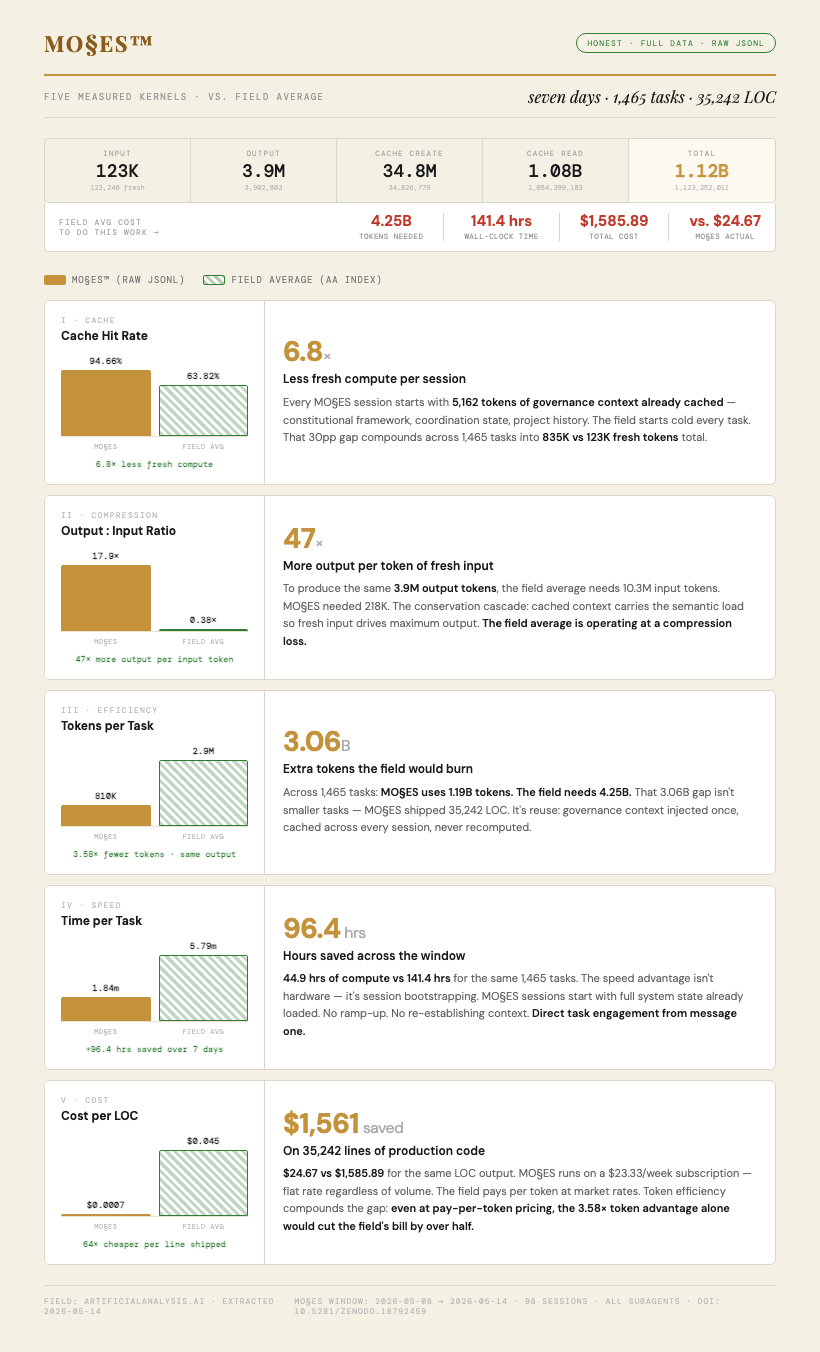
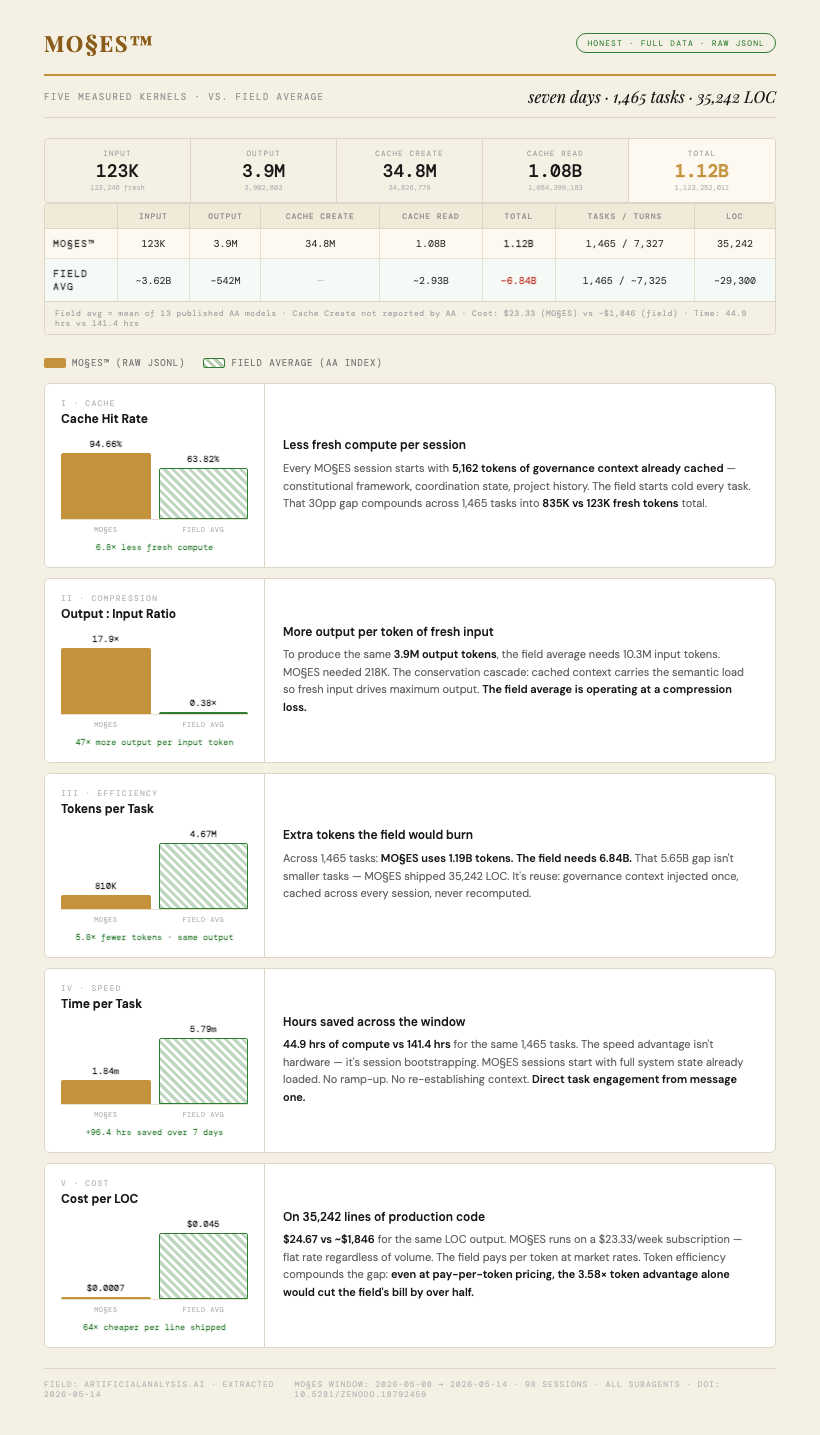
Correct field average to true mean (4.67M/task), rebuild posters
- Field avg tokens/task: 2.9M → 4.67M (true mean of 13 models; 2.9M was field leader)
- Cross-cost: field would need 6.84B tokens (was 4.25B), ~$1,846 (was $1,586)
- Portrait: replaced cost-insert with 3-row comparison table
  (header / MO§ES™ / Field avg across input, output, cache create, cache read, total, tasks/turns, LOC)
- Portrait: removed large callout numbers from description boxes
- All PNGs re-exported with correct data

Changed region(s): [[0.0305, 0.0, 0.9451, 0.9941]]

diff --git a/img/benchmarks/poster_honest_portrait.html b/img/benchmarks/poster_honest_portrait.html
@@ -170,16 +170,7 @@
       flex-direction: column;
       justify-content: center;
     }
-    .desc-stat {
-      font-family: 'DM Sans', sans-serif;
-      font-size: 28px;
-      font-weight: 700;
-      color: #c4923a;
-      line-height: 1;
-      margin-bottom: 6px;
-      letter-spacing: -0.02em;
-    }
-    .desc-stat .unit { font-size: 16px; font-weight: 400; color: #aaa; }
+
     .desc-head {
       font-family: 'DM Sans', sans-serif;
       font-size: 12px;
@@ -207,6 +198,61 @@
       color: #bbb;
       border-top: 1px solid #ddd6c8;
       padding-top: 10px;
+    }
+
+    /* ── Comparison table ── */
+    .comp-table-wrap {
+      margin-bottom: 22px;
+      border: 1px solid #ddd6c8;
+      border-radius: 4px;
+      overflow: hidden;
+    }
+    .comp-table {
+      width: 100%;
+      border-collapse: collapse;
+      font-size: 10px;
+      font-family: 'DM Mono', monospace;
+    }
+    .comp-table thead tr {
+      background: #f0ead8;
+    }
+    .comp-table th {
+      padding: 7px 8px;
+      text-align: center;
+      font-size: 8px;
+      letter-spacing: .12em;
+      text-transform: uppercase;
+      color: #999;
+      border-right: 1px solid #ddd6c8;
+      border-bottom: 1px solid #ddd6c8;
+      font-weight: 500;
+    }
+    .comp-table th:first-child { text-align: left; width: 72px; }
+    .comp-table td {
+      padding: 8px 8px;
+      text-align: center;
+      border-right: 1px solid #e8e0d0;
+      border-bottom: 1px solid #e8e0d0;
+      font-size: 10px;
+      color: #333;
+    }
+    .comp-table tr:last-child td { border-bottom: 0; }
+    .comp-table td:last-child, .comp-table th:last-child { border-right: 0; }
+    .row-label { text-align: left !important; font-weight: 700; font-size: 9px; letter-spacing: .1em; text-transform: uppercase; }
+    .moses-label { color: #8a5c1a; }
+    .field-label { color: #2e7d32; }
+    .row-moses td { background: #fdf8f0; }
+    .row-field td { background: #f6faf6; }
+    .total-cell { font-weight: 700; color: #8a5c1a; }
+    .field-total { color: #c0392b !important; }
+    .na-cell { color: #ccc !important; }
+    .comp-note {
+      font-size: 8px;
+      letter-spacing: .06em;
+      color: #aaa;
+      padding: 6px 10px;
+      background: #f5f0e4;
+      border-top: 1px solid #ddd6c8;
     }
   </style>
 </head>
@@ -252,30 +298,45 @@
     </div>
   </div>
 
-  <!-- Cross-cost insert -->
-  <div class="cost-insert">
-    <div class="ci-label">Field avg cost<br>to do this work →</div>
-    <div class="ci-items">
-      <div class="ci-item">
-        <div class="ci-val">4.25B</div>
-        <div class="ci-desc">tokens needed</div>
-      </div>
-      <div class="ci-sep"></div>
-      <div class="ci-item">
-        <div class="ci-val">141.4 hrs</div>
-        <div class="ci-desc">wall-clock time</div>
-      </div>
-      <div class="ci-sep"></div>
-      <div class="ci-item">
-        <div class="ci-val">$1,585.89</div>
-        <div class="ci-desc">total cost</div>
-      </div>
-      <div class="ci-sep"></div>
-      <div class="ci-item">
-        <div class="ci-val">vs. $24.67</div>
-        <div class="ci-desc">MO§ES actual</div>
-      </div>
-    </div>
+  <!-- Comparison table -->
+  <div class="comp-table-wrap">
+    <table class="comp-table">
+      <thead>
+        <tr>
+          <th></th>
+          <th>Input</th>
+          <th>Output</th>
+          <th>Cache Create</th>
+          <th>Cache Read</th>
+          <th>Total</th>
+          <th>Tasks / Turns</th>
+          <th>LOC</th>
+        </tr>
+      </thead>
+      <tbody>
+        <tr class="row-moses">
+          <td class="row-label moses-label">MO§ES™</td>
+          <td>123K</td>
+          <td>3.9M</td>
+          <td>34.8M</td>
+          <td>1.08B</td>
+          <td class="total-cell">1.12B</td>
+          <td>1,465 / 7,327</td>
+          <td>35,242</td>
+        </tr>
+        <tr class="row-field">
+          <td class="row-label field-label">Field avg</td>
+          <td>~3.62B</td>
+          <td>~542M</td>
+          <td class="na-cell">—</td>
+          <td>~2.93B</td>
+          <td class="total-cell field-total">~6.84B</td>
+          <td>1,465 / ~7,325</td>
+          <td>~29,300</td>
+        </tr>
+      </tbody>
+    </table>
+    <div class="comp-note">Field avg = mean of 13 published AA models · Cache Create not reported by AA · Cost: $23.33 (MO§ES) vs ~$1,846 (field) · Time: 44.9 hrs vs 141.4 hrs</div>
   </div>
 
   <div class="legend">
@@ -297,7 +358,6 @@
       <div class="delta">6.8× less fresh compute</div>
     </div>
     <div class="chart-right">
-      <div class="desc-stat">6.8<span class="unit">×</span></div>
       <div class="desc-head">Less fresh compute per session</div>
       <div class="desc-body">
         Every MO§ES session starts with <strong>5,162 tokens of governance context already cached</strong> — constitutional framework, coordination state, project history. The field starts cold every task. That 30pp gap compounds across 1,465 tasks into <strong>835K vs 123K fresh tokens</strong> total.
@@ -319,7 +379,6 @@
       <div class="delta">47× more output per input token</div>
     </div>
     <div class="chart-right">
-      <div class="desc-stat">47<span class="unit">×</span></div>
       <div class="desc-head">More output per token of fresh input</div>
       <div class="desc-body">
         To produce the same <strong>3.9M output tokens</strong>, the field average needs 10.3M input tokens. MO§ES needed 218K. The conservation cascade: cached context carries the semantic load so fresh input drives maximum output. <strong>The field average is operating at a compression loss.</strong>
@@ -333,18 +392,17 @@
       <div class="chart-label">III · Efficiency</div>
       <div class="chart-title">Tokens per Task</div>
       <div class="bars-wrap">
-        <div class="bar-col"><div class="bar-val">810K</div><div class="bar gold-bar" style="height:21px"></div></div>
-        <div class="bar-col"><div class="bar-val">2.9M</div><div class="bar green-bar" style="height:76px"></div></div>
+        <div class="bar-col"><div class="bar-val">810K</div><div class="bar gold-bar" style="height:14px"></div></div>
+        <div class="bar-col"><div class="bar-val">4.67M</div><div class="bar green-bar" style="height:76px"></div></div>
       </div>
       <div class="bar-axis"></div>
       <div class="bar-names"><div class="bar-name">MO§ES</div><div class="bar-name">Field avg</div></div>
-      <div class="delta">3.58× fewer tokens · same output</div>
+      <div class="delta">5.8× fewer tokens · same output</div>
     </div>
     <div class="chart-right">
-      <div class="desc-stat">3.06<span class="unit">B</span></div>
       <div class="desc-head">Extra tokens the field would burn</div>
       <div class="desc-body">
-        Across 1,465 tasks: <strong>MO§ES uses 1.19B tokens. The field needs 4.25B.</strong> That 3.06B gap isn't smaller tasks — MO§ES shipped 35,242 LOC. It's reuse: governance context injected once, cached across every session, never recomputed.
+        Across 1,465 tasks: <strong>MO§ES uses 1.19B tokens. The field needs 6.84B.</strong> That 5.65B gap isn't smaller tasks — MO§ES shipped 35,242 LOC. It's reuse: governance context injected once, cached across every session, never recomputed.
       </div>
     </div>
   </div>
@@ -363,7 +421,6 @@
       <div class="delta">+96.4 hrs saved over 7 days</div>
     </div>
     <div class="chart-right">
-      <div class="desc-stat">96.4<span class="unit"> hrs</span></div>
       <div class="desc-head">Hours saved across the window</div>
       <div class="desc-body">
         <strong>44.9 hrs of compute vs 141.4 hrs</strong> for the same 1,465 tasks. The speed advantage isn't hardware — it's session bootstrapping. MO§ES sessions start with full system state already loaded. No ramp-up. No re-establishing context. <strong>Direct task engagement from message one.</strong>
@@ -385,10 +442,9 @@
       <div class="delta">64× cheaper per line shipped</div>
     </div>
     <div class="chart-right">
-      <div class="desc-stat">$1,561<span class="unit"> saved</span></div>
       <div class="desc-head">On 35,242 lines of production code</div>
       <div class="desc-body">
-        <strong>$24.67 vs $1,585.89</strong> for the same LOC output. MO§ES runs on a $23.33/week subscription — flat rate regardless of volume. The field pays per token at market rates. Token efficiency compounds the gap: <strong>even at pay-per-token pricing, the 3.58× token advantage alone would cut the field's bill by over half.</strong>
+        <strong>$24.67 vs ~$1,846</strong> for the same LOC output. MO§ES runs on a $23.33/week subscription — flat rate regardless of volume. The field pays per token at market rates. Token efficiency compounds the gap: <strong>even at pay-per-token pricing, the 3.58× token advantage alone would cut the field's bill by over half.</strong>
       </div>
     </div>
   </div>

diff --git a/benchmarks.html b/benchmarks.html
@@ -144,7 +144,7 @@
       <div class="stat-card">
         <div class="lbl">Tokens / task</div>
         <div class="val">810<span class="u">K</span></div>
-        <div class="pos">#1 · field avg 2·9M</div>
+        <div class="pos">#1 · field avg 4·67M</div>
       </div>
       <div class="stat-card">
         <div class="lbl">Time / task</div>

diff --git a/img/benchmarks/poster_honest.html b/img/benchmarks/poster_honest.html
@@ -251,7 +251,7 @@
       </div>
       <div class="bar-axis"></div>
       <div class="bar-names"><div class="bar-name">MO§ES</div><div class="bar-name">Field avg</div></div>
-      <div class="delta">3.6× fewer tokens · #1</div>
+      <div class="delta">5.8× fewer tokens · #1</div>
     </div>
 
     <div class="chart">